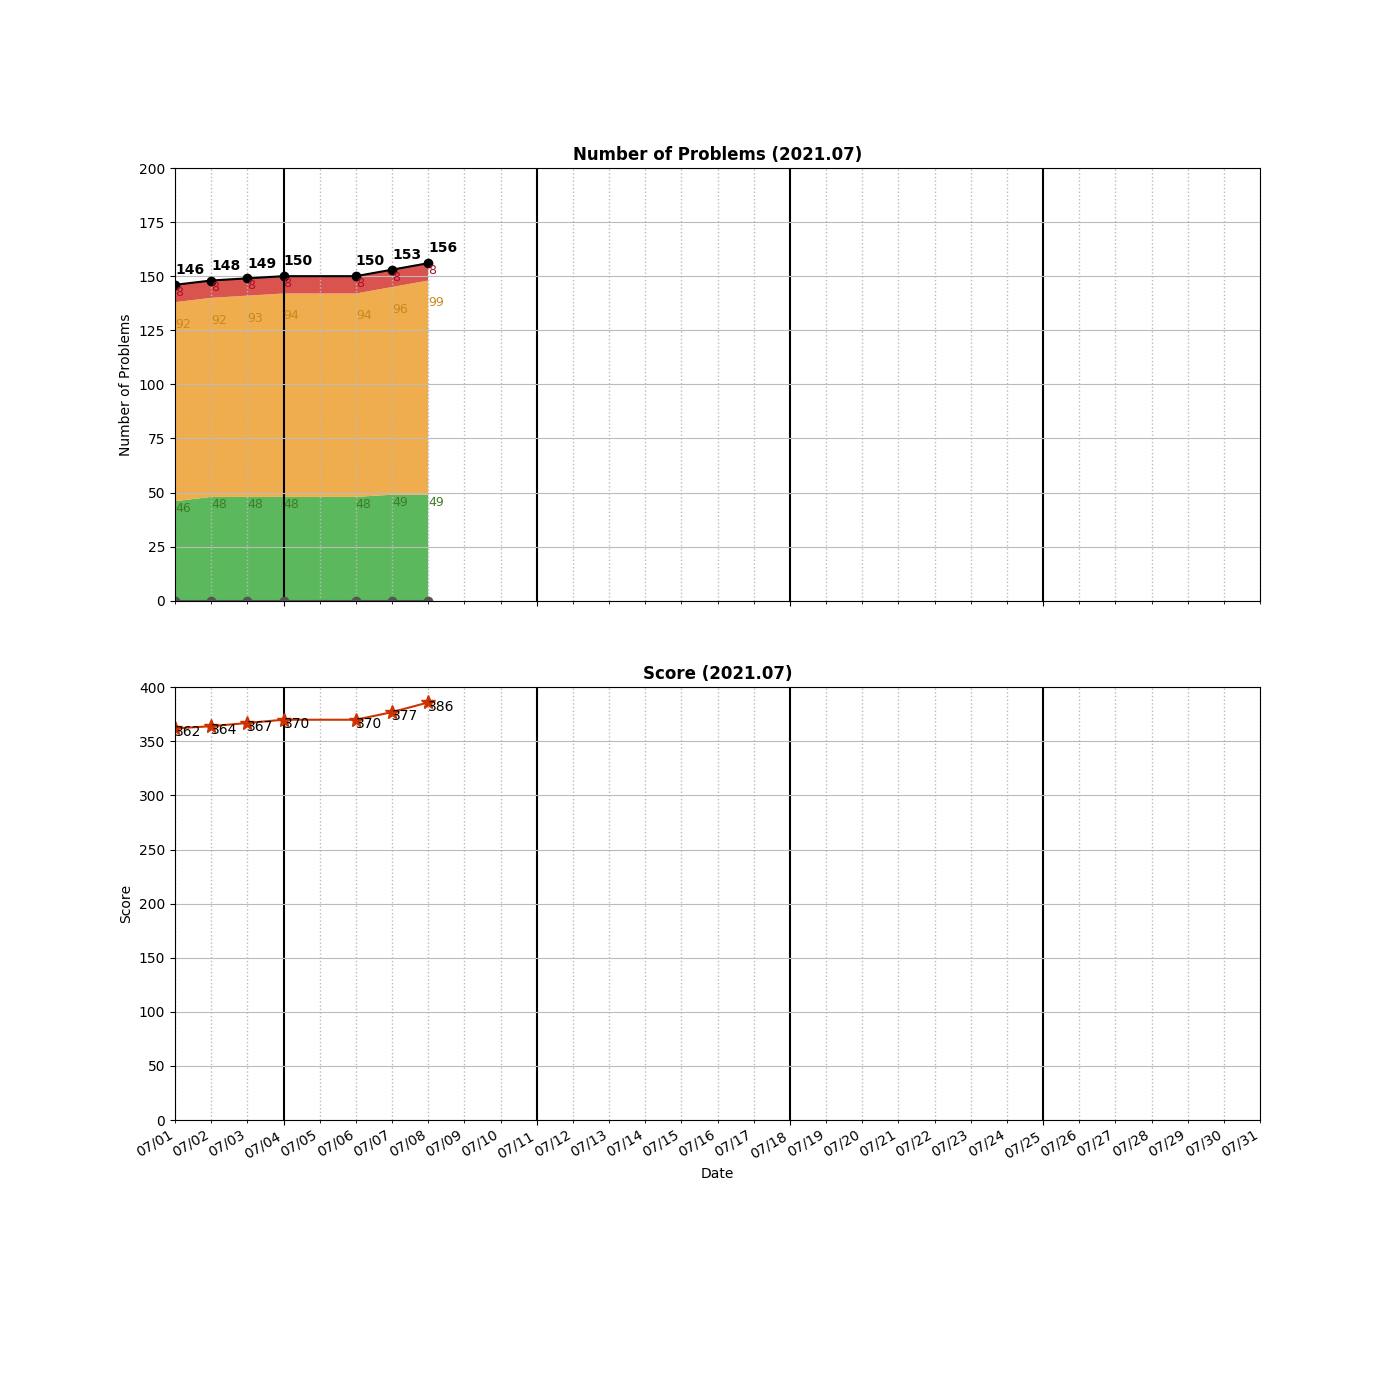
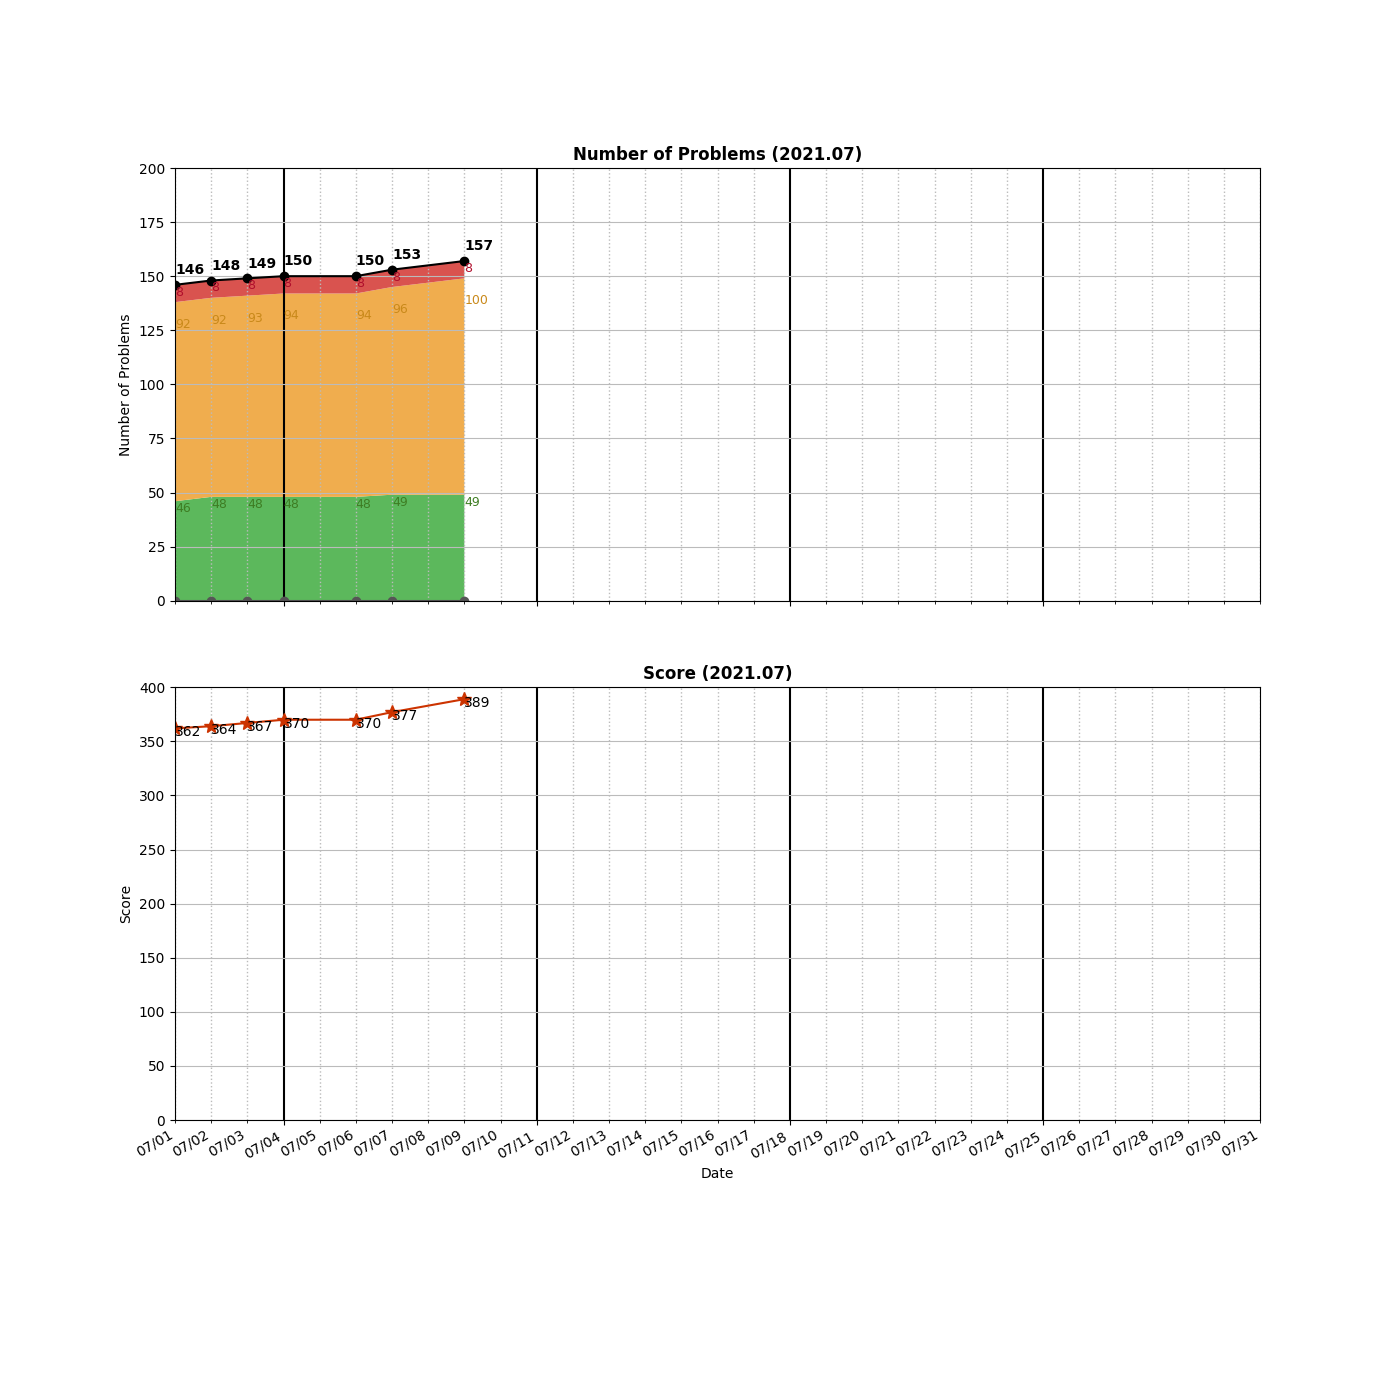
Added __0056__Merge Intervals.py

Changed region(s): [[0.2764, 0.1536, 0.3379, 0.43], [0.3071, 0.4914, 0.3379, 0.5221]]

diff --git a/algo/Heap/__0378__Kth Smallest Element in a Sorted Matrix.py b/algo/Heap/__0378__Kth Smallest Element in a Sorted Matrix.py
@@ -1,8 +1,22 @@
 class Solution:
     
+    # Sorting [O(nlogn): 26%]
+    def kthSmallest(self, matrix: List[List[int]], k: int) -> int:
+        print("Sorting")
+        if not matrix:
+            return None 
+        arr = []
+        n = len(matrix)
+        for i in range(n):
+            for j in range(n):
+                arr.append(matrix[i][j])
+        arr.sort()
+        return arr[k-1]
+    
     # N-Heap [O(n + klogn), 53%]   
     # Note: n is one-dimension size; node number is n^2
-    def kthSmallest(self, matrix: List[List[int]], k: int) -> int:
+    def kthSmallest1(self, matrix: List[List[int]], k: int) -> int:
+        print("Heap")
         if not matrix:
             return -1
         
@@ -26,3 +40,32 @@ class Solution:
                 continue
             heapq.heappush(heap, (matrix[row][col], row, col))
         return val 
+    
+        
+    # Incorrect
+    def kthSmallest1(self, matrix: List[List[int]], k: int) -> int:
+        if not matrix:
+            return None 
+        
+        n = len(matrix)
+        groups = [[] for _ in range(n * 2 - 1)]
+        
+        for i in range(n):
+            for j in range(n):
+                idx = i + j
+                groups[idx].append(matrix[i][j])
+        
+        print(groups)
+        k -= 1
+        for group in groups:
+            if len(group) <= k:
+                k -= len(group)
+                print("skip", group)
+                continue
+            else:
+                group.sort()
+                print("use", group)
+                print("k=", k)
+                return group[k]
+        
+                

diff --git a/algo/Array/__0056__Merge Intervals.py b/algo/Array/__0056__Merge Intervals.py
@@ -1,0 +1,18 @@
+class Solution:
+    def merge(self, intervals: List[List[int]]) -> List[List[int]]:
+        if not intervals:
+            return []
+        
+        intervals.sort()
+        i, j = 0, 1
+        while j < len(intervals):
+            if intervals[j][0] <= intervals[i][1]:  #merge
+                intervals[i][1] = max(intervals[i][1], intervals[j][1])
+                intervals.pop(j)
+            else:
+                i += 1
+                j += 1
+                
+        results = []
+        return intervals
+                

diff --git a/README.md b/README.md
@@ -2,6 +2,7 @@
 algo
 ├── Array
 │   ├── __0053__Maximum\ Subarray.py
+│   ├── __0056__Merge\ Intervals.py
 │   ├── __0122__Best\ Time\ to\ Buy\ and\ Sell\ Stock\ II.py
 │   ├── __0239__Sliding\ Window\ Maximum.py
 │   ├── __0283__Move\ Zeroes.py
@@ -182,7 +183,7 @@ algo
         ├── LinkedList.cpython-37.pyc
         └── UnrolledLinkedList.cpython-37.pyc
 
-19 directories, 162 files
+19 directories, 163 files
 
 =====================================
 ============= Local Repo ============
@@ -213,6 +214,7 @@ __0050__Pow(x, n).py
 __0051__N-Queens.py
 __0052__N-Queens II.py
 __0053__Maximum Subarray.py
+__0056__Merge Intervals.py
 __0062__Unique Paths.py
 __0064__Minimum Path Sum.py
 __0070__Climbing Stairs.py
@@ -341,7 +343,7 @@ __1429__First Unique Number.py
 __1593__Split a String Into the Max Number of Unique Substrings.py
 __1905__Count Sub Islands.py
 =====================================
-Num of Python Practice:  153
+Num of Python Practice:  154
 
 
 =====================================
@@ -374,6 +376,7 @@ Num of Python Practice:  153
  0051 N-Queens
  0052 N-Queens II
  0053 Maximum Subarray
+ 0056 Merge Intervals
  0062 Unique Paths
  0063 Unique Paths II
  0064 Minimum Path Sum
@@ -505,10 +508,10 @@ Num of Python Practice:  153
  1905 Count Sub Islands
 =====================================
 Solved / Total (Easy)  :   49 /  503
-Solved / Total (Medium):   99 / 1015
+Solved / Total (Medium):  100 / 1015
 Solved / Total (Hard)  :    8 /  405
-Solved / Total (All)   :  156 / 1923
-Total Score            :  386
+Solved / Total (All)   :  157 / 1923
+Total Score            :  389
 =====================================
 
 ```
